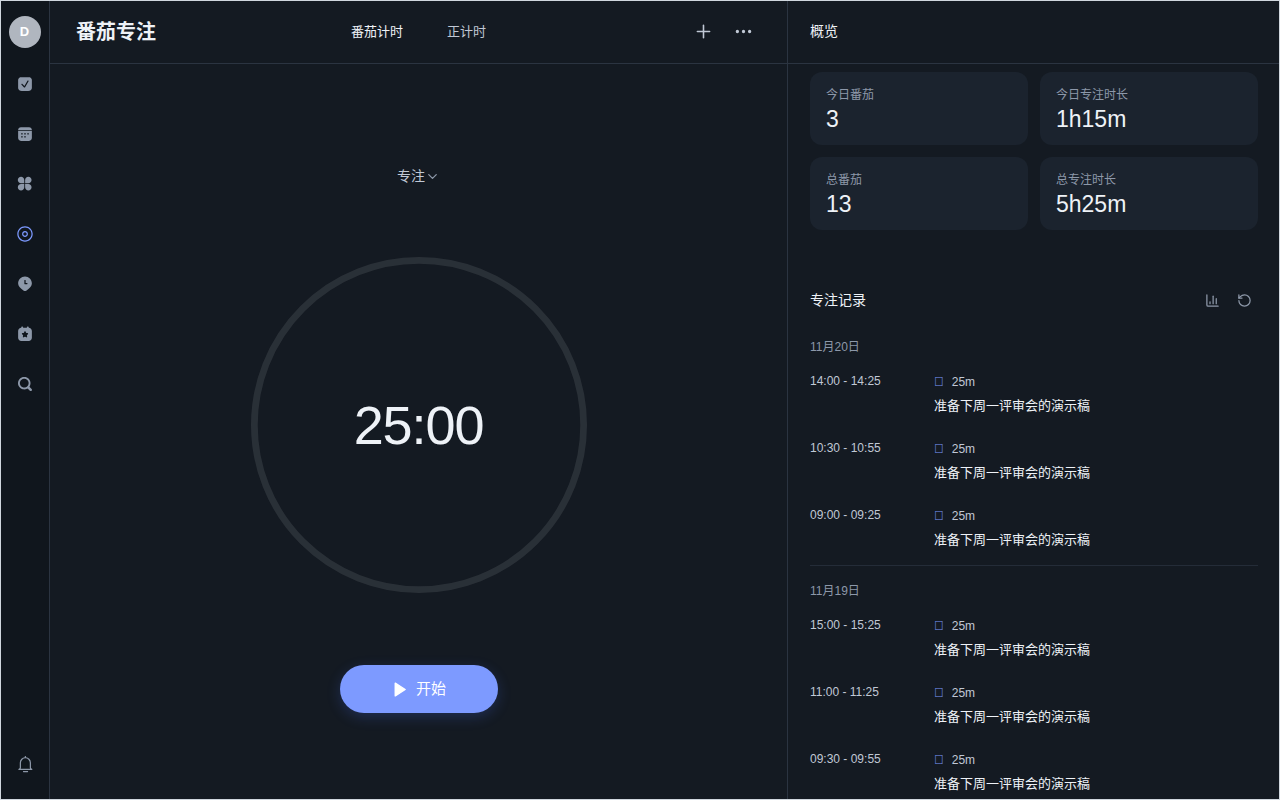
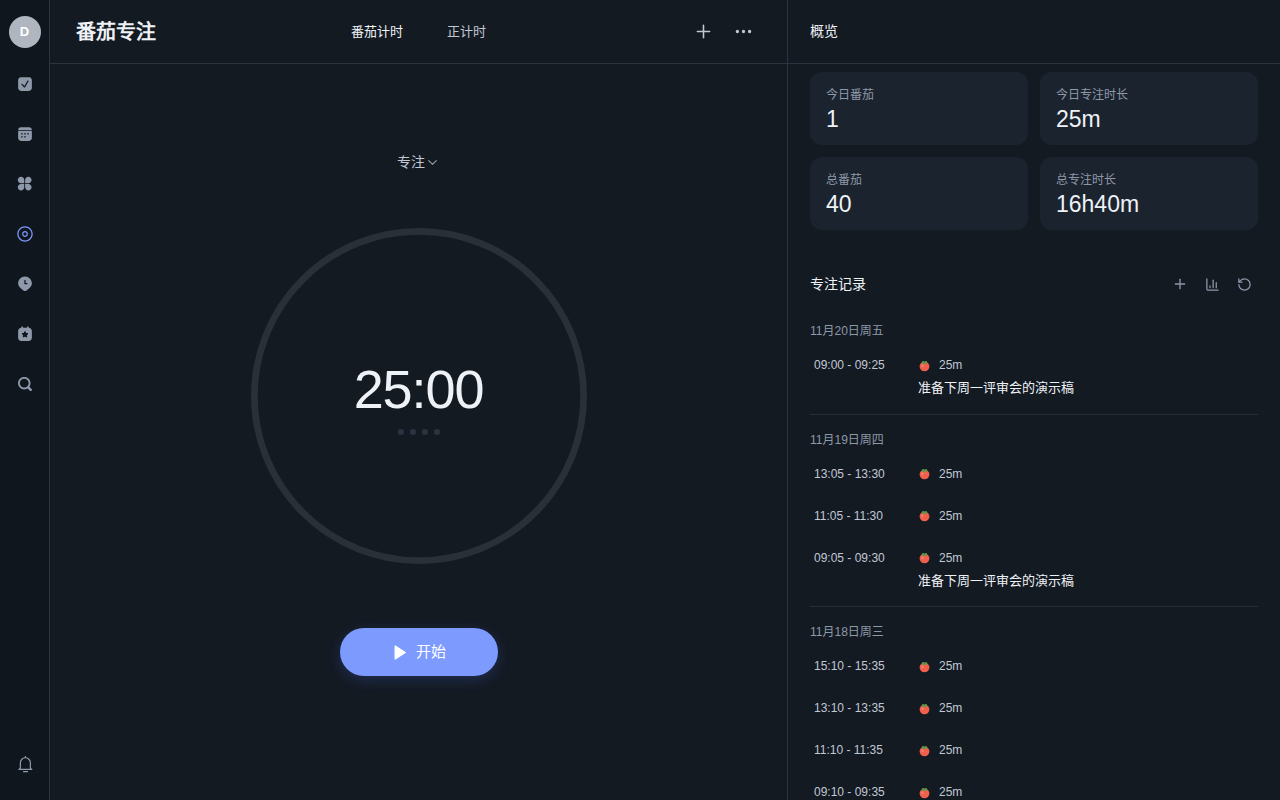
docs: retake the README screenshots and record this round in agents.md
All nine screenshots come from one demo account on a fresh local
server (Playwright, fixed clock, 1280x800, no emoji): the task list
with a rich-text description, calendar, matrix, and new ones for the
Kanban board, the summary, countdowns and statistics; habits and focus
show their new detail and history views. The galleries in both READMEs
gain two rows.

agents.md: pitfalls (no comments in schema.sql, the two lunar tables,
the countdown reminder index, restarting wrangler dev for a new build,
caret timing in ProseMirror, killing local servers by PID, how summary
drafts are keyed, demo data for screenshots), known gaps of the summary
export, and a log entry for the roadmap work.

diff --git a/agents.md b/agents.md
@@ -35,8 +35,15 @@
 - pnpm：`-w` 是 workspace 根目录，不是 npm 的 `--workspace`，选包用 `--filter`；`pnpm --filter worker exec …` 在 `worker/` 下运行，相对路径以它为准；新增带安装脚本的依赖要加进 `pnpm-workspace.yaml` 的 `allowBuilds`，否则安装报 `ERR_PNPM_IGNORED_BUILDS`。
 - Claude Code 的 worktree 从 `origin/main` 创建，开工前先 `git fetch`，确认本地 `main` 没有落后（2026-11-19 曾落后 19 个提交）。
 - zsh 里 `$VAR:path` 会被当成修饰符（`:w`、`:e` 等），git 引用写成 `"${VAR}:path"`。
-- README 截图：本地 `wrangler dev` 临时库加演示账号，Playwright `page.clock` 固定时间避免跨零点；环境没有 emoji 字体，演示数据别用 emoji。
+- README 截图：本地 `wrangler dev` 临时库加演示账号，Playwright `page.clock` 固定时间避免跨零点；环境没有 emoji 字体，演示数据别用 emoji（倒数纪念日的默认图标也是 emoji，要显式给 `♥`、`★` 这类符号）。已完成的历史任务用 `POST /open/v1/backup/import` 写入，才能带上过去的 `completed_time`。
 - README 有中文 `README.md`（默认）和英文 `README.en.md` 两份，结构逐节对应、截图共用（中文界面）；改一份要同步另一份。
+- `schema.sql` 里不要写注释：`ensureSchema` 按 `;` 切分语句再逐条建表、补列、补索引，注释会混进语句里。`ADD COLUMN … NOT NULL` 必须带 `DEFAULT`，否则老库补列失败。
+- 农历换算表有两份：`worker/src/lunar.ts`（Cron 提醒）和 `webapp/src/lib/lunar.ts`（界面），改一份要同步另一份。不要改用 `Intl` 的 `ca-chinese`：新月落在午夜前后几分钟时 ICU 会差一天，逐日扫描也超出 Cron 的 CPU 预算。
+- 倒计时提醒的 Cron 查询用部分索引 `idx_countdowns_reminders`（`INDEXED BY` 写死），改查询时 WHERE 里要保留索引的两个条件，和任务提醒的 `idx_tasks_reminders` 一样。
+- `pnpm test:web` 会先构建网页应用；手动用 `wrangler dev` 看改动时，重新构建后要重启 `wrangler dev` 才会提供新文件。
+- Playwright 驱动富文本编辑器：按 End 或 Ctrl+End 后等约 100ms 再输入，ProseMirror 是异步移动光标的。
+- 停本地服务按 PID 杀（`ps aux | grep '[w]rangler dev --port 8797'`），`pkill -f '<命令行>'` 会匹配到执行它的 shell 本身。
+- 摘要页的设置、模板和编辑中的草稿都存在服务端（`summary_state`、`summary_templates`）；草稿按「设置 + 当时的日期范围」做键，换了范围就显示按任务生成的内容，原草稿留在库里直到被覆盖。
 
 ## 遗留问题
 
@@ -47,6 +54,7 @@
 - 网页每次打开都加载全部已完成任务。几千个时，单个请求的序列化约 4ms（Node 粗测 3,000 个任务），加上 D1 结果解析，冷实例接近免费套餐每次 10ms 的 CPU 上限；真遇到再把已完成任务改为按需加载。
 - `/task/move` 每个任务要 3–8 次查询，一次请求移动较多任务会超过 50 次的上限（CLI 一次只移一个，网页的批量移动走 `POST /task/{id}`）。
 - Microsoft To Do 导入没用真实微软账号跑过：代码已随 `0ee94213` 上线，但还没注册 Entra 应用、`MS_TODO_CLIENT_ID` 未设置，所以界面显示「未配置」。任务列表上的 `$expand=checklistItems,linkedResources` 是 Graph 文档没写的用法，被拒（400）时前端自动退回只展开 `checklistItems`；如果两种都不行，步骤导入会失败，需要改成逐个任务读取。
+- 摘要的专注时长来自 `/focus/stats`，时间范围超过 371 天（自定义的长范围）时不显示专注时长。导出图片靠 SVG `foreignObject` 画到 canvas，Safari 可能拒绝导出（会提示「此浏览器无法生成图片」），PDF 和复制不受影响。
 
 ## 记录
 
@@ -60,3 +68,4 @@
 - 2026-11-20（续）：按生产数据再优化一轮：表结构检查改为读 `schema_meta` 一行；新建/保存/完成/删除任务、清单列表、`/api/me`、习惯打卡、看板数据、清单增删改都压到 1–2 次往返（`RETURNING`、`db.batch`、子任务列表用 SQL JSON 函数改）；网页启动时 `/api/me` 与数据并行加载。未部署，数据库也还在 WNAM。
 - 2026-11-20（续）：部署 `0ee94213`（To Do 导入、重复规则、两轮性能优化），同时把 D1 从美西迁到香港：导出 → 本地导入并用新代码验证 → 删除旧库 → 以 `--location apac` 新建同名库 → 导入 → 临时写入 `database_id` 部署一次后改回。中断约 3 分钟；17 行数据全部核对一致，部署后第一个请求自动补上 `schema_meta` 和两个索引。
 - 2026-11-20（续）：worker 的 wrangler 4.127.1 → 4.165.0，`@cloudflare/vitest-pool-workers` 0.22 → 0.23，`@cloudflare/workers-types` v4 → v5（5.20261119.1）；`pnpm peers check` 无告警，类型检查、全部测试、`wrangler deploy --dry-run` 和本地冒烟都通过。随后用 4.165.0 部署 `5b137473`：不写 `database_id` 也正确沿用了香港库（`env.DB (inherited)`，版本详情里的 id 为 `01623c4d…`），Cron 正常。
+- 2026-11-20（续）：本地 `main` 按路线图逐项提交（未推送、未部署）：搜索筛选与保存为过滤器、出错 / 离线状态和浏览器 E2E、TickTick 备份导入、统计页、快速添加识别时间与重复、快捷键、倒数纪念日（农历、提前提醒、样式、归档）、嵌套标签、习惯（重复规则、多次打卡、历史统计）、每日提醒、专注（正计时、完整记录、统计）、富文本描述（TipTap + 自写 Markdown 层）、摘要（模板、草稿、导出）；放弃任务也记 `completedTime`；看板卡片标题换行，笔记不再显示勾选框；E2E 增加摘要流程和对话框文案检查。路线图全部完成。部署后首个请求会补建 `summary_state`、`summary_templates`、`focus_records.added` 等新表、列和索引。

diff --git a/README.en.md b/README.en.md
@@ -11,7 +11,7 @@ What [NodeWarden](https://github.com/shuaiplus/nodewarden) is to Bitwarden, Node
 - **Companion CLI**: `nodetick` mirrors the official CLI's commands and can point at your own server
 - **No ops**: built on Workers + D1, so there are no servers or databases to look after and no bandwidth fees; the free plan is enough
 
-![NodeTick web app: smart lists, tasks grouped by date, and task details](docs/screenshots/tasks.png)
+![NodeTick web app: smart lists, tasks grouped by date, and task details with a rich-text description](docs/screenshots/tasks.png)
 
 [Features](#features) · [Architecture](#architecture) · [Deployment](#deployment) · [CLI](#cli) · [API](#api) · [Security model](#security-model) · [Local development](#local-development) · [Roadmap](#roadmap)
 
@@ -32,11 +32,15 @@ What [NodeWarden](https://github.com/shuaiplus/nodewarden) is to Bitwarden, Node
 
 | Calendar | Eisenhower Matrix |
 | :---: | :---: |
-| ![Calendar month view: tasks laid out by date](docs/screenshots/calendar.png) | ![Eisenhower Matrix: tasks grouped by priority](docs/screenshots/matrix.png) |
+| ![Calendar month view: tasks and countdowns laid out by date](docs/screenshots/calendar.png) | ![Eisenhower Matrix: tasks grouped by priority](docs/screenshots/matrix.png) |
+| **Kanban** | **Summary** |
+| ![Kanban board: task cards in columns with dates, tags and subtask progress](docs/screenshots/kanban.png) | ![Summary: this week's tasks grouped by list as an editable document, with templates, filters and display settings on the right](docs/screenshots/summary.png) |
 | **Habits** | **Focus (dark theme)** |
-| ![Habits: weekly check-ins, streaks and monthly stats](docs/screenshots/habits.png) | ![Pomodoro focus: timer, today's stats and focus records, dark theme](docs/screenshots/focus-dark.png) |
+| ![Habits: weekly check-ins, month calendar, streaks and a yearly heat map](docs/screenshots/habits.png) | ![Pomodoro focus: timer, totals and focus records, dark theme](docs/screenshots/focus-dark.png) |
+| **Countdowns** | **Statistics** |
+| ![Countdowns: ring, classic, soft, calendar and solid cards](docs/screenshots/countdown.png) | ![Statistics: completed tasks, completion rate, the completion trend and a year of completions](docs/screenshots/stats.png) |
 
-The screenshots show the Chinese UI with demo tasks and habits. The app follows your browser language, so English browsers get the English UI.
+The screenshots show the Chinese UI with demo tasks, habits, focus records and countdowns. The app follows your browser language, so English browsers get the English UI.
 
 ### Quick add and everyday actions
 

diff --git a/README.md b/README.md
@@ -11,7 +11,7 @@
 - **配套 CLI**：`nodetick` 的命令与官方 CLI 对齐，并且可以指定自建服务器
 - **零运维**：基于 Workers + D1，不用管服务器和数据库，没有流量费，免费套餐即可运行
 
-![NodeTick 网页应用：智能清单、按日期分组的任务列表和任务详情](docs/screenshots/tasks.png)
+![NodeTick 网页应用：智能清单、按日期分组的任务列表和带富文本描述的任务详情](docs/screenshots/tasks.png)
 
 [功能](#功能) · [架构](#架构) · [部署](#部署) · [CLI](#cli) · [API](#api) · [安全模型](#安全模型) · [本地开发](#本地开发) · [路线图](#路线图)
 
@@ -32,11 +32,15 @@
 
 | 日历 | 四象限 |
 | :---: | :---: |
-| ![日历月视图：按日期排布的任务](docs/screenshots/calendar.png) | ![四象限：按优先级分组的任务](docs/screenshots/matrix.png) |
+| ![日历月视图：按日期排布的任务和倒数纪念日](docs/screenshots/calendar.png) | ![四象限：按优先级分组的任务](docs/screenshots/matrix.png) |
+| **看板** | **摘要** |
+| ![看板：按列分组的任务卡片，显示日期、标签和子任务进度](docs/screenshots/kanban.png) | ![摘要：本周任务按清单汇总成可编辑的文档，右侧是模板、筛选和显示设置](docs/screenshots/summary.png) |
 | **习惯** | **专注（深色主题）** |
-| ![习惯：每周打卡、连胜和月度统计](docs/screenshots/habits.png) | ![番茄专注：计时器、今日统计和专注记录，深色主题](docs/screenshots/focus-dark.png) |
+| ![习惯：每周打卡、月历、连续天数和年度热力图](docs/screenshots/habits.png) | ![番茄专注：计时器、累计统计和专注记录，深色主题](docs/screenshots/focus-dark.png) |
+| **倒数纪念日** | **统计** |
+| ![倒数纪念日：圆环、经典、柔和、日历和纯色卡片](docs/screenshots/countdown.png) | ![统计：完成任务数、完成率、完成趋势和过去一年的完成日历](docs/screenshots/stats.png) |
 
-截图中的任务和习惯均为演示数据。
+截图中的任务、习惯、专注记录和纪念日均为演示数据。
 
 ### 快速添加与常用操作
 
